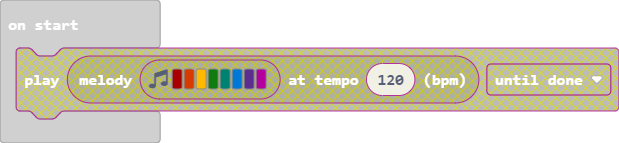
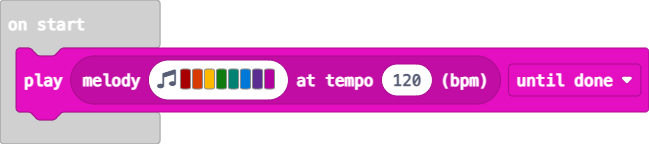
Restore '9/23/2024, 8:14:35 AM Update main.blocks, main.ts'

diff --git a/main.ts b/main.ts
@@ -1,0 +1,1 @@
+music.play(music.stringPlayable("C5 B A G F E D C ", 120), music.PlaybackMode.UntilDone)
